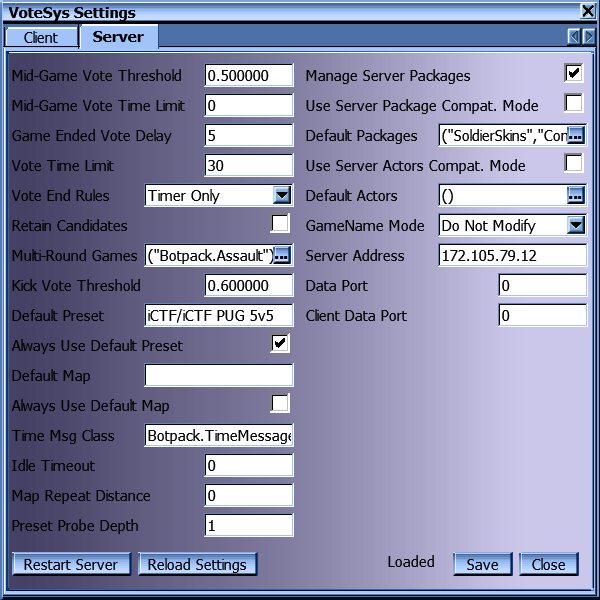
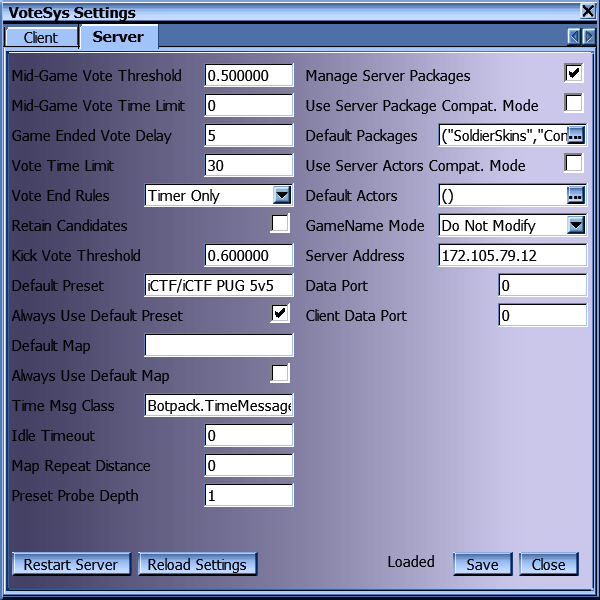
Undo Adding MultiRoundGameModes (#25)
Reverts
490ebf336e635ae784cb656893c1a25e40608b01
318839ff965ebbfbf0112248d21a4c8131ce07e3

diff --git a/README.md b/README.md
@@ -61,7 +61,6 @@ MidGameVoteThreshold=0.5
 MidGameVoteTimeLimit=30
 VoteEndCondition=VEC_TimerOnly
 bRetainCandidates=False
-MultiRoundGameModes=Botpack.Assault
 MinimumMapRepeatDistance=0
 KickVoteThreshold=0.6
 DefaultTimeMessageClass=Botpack.TimeMessage
@@ -99,7 +98,6 @@ DefaultActors=IpServer.UdpServerUplink MasterServerAddress=unreal.epicgames.com 
 1. [MidGameVoteTimeLimit](#midgamevotetimelimit)
 1. [VoteEndCondition](#voteendcondition)
 1. [bRetainCandidates](#bretaincandidates)
-1. [MultiRoundGameModes](#multiroundgamemodes)
 1. [MinimumRepeatDistance](#minimumrepeatdistance)
 1. [KickVoteThreshold](#kickvotethreshold)
 1. [DefaultTimeMessageClass](#defaulttimemessageclass)
@@ -161,14 +159,6 @@ Defaults to `VEC_TimerOnly`.
 If true, candidates that no longer have any votes for them get retained. If false, candidates with no votes disappear from the list.
 
 Defaults to false.
-
-#### MultiRoundGameModes
-
-List of game modes that are played over multiple rounds with restarts in between. You can specify either the full name of the gamemode class (Package.ClassName), or just the name of the class.
-
-VoteSys will not detect end of game until `bDontRestart` is set to `True` on the GameInfo object.
-
-List contains "Botpack.Assault" by default.
 
 #### MinimumRepeatDistance
 
